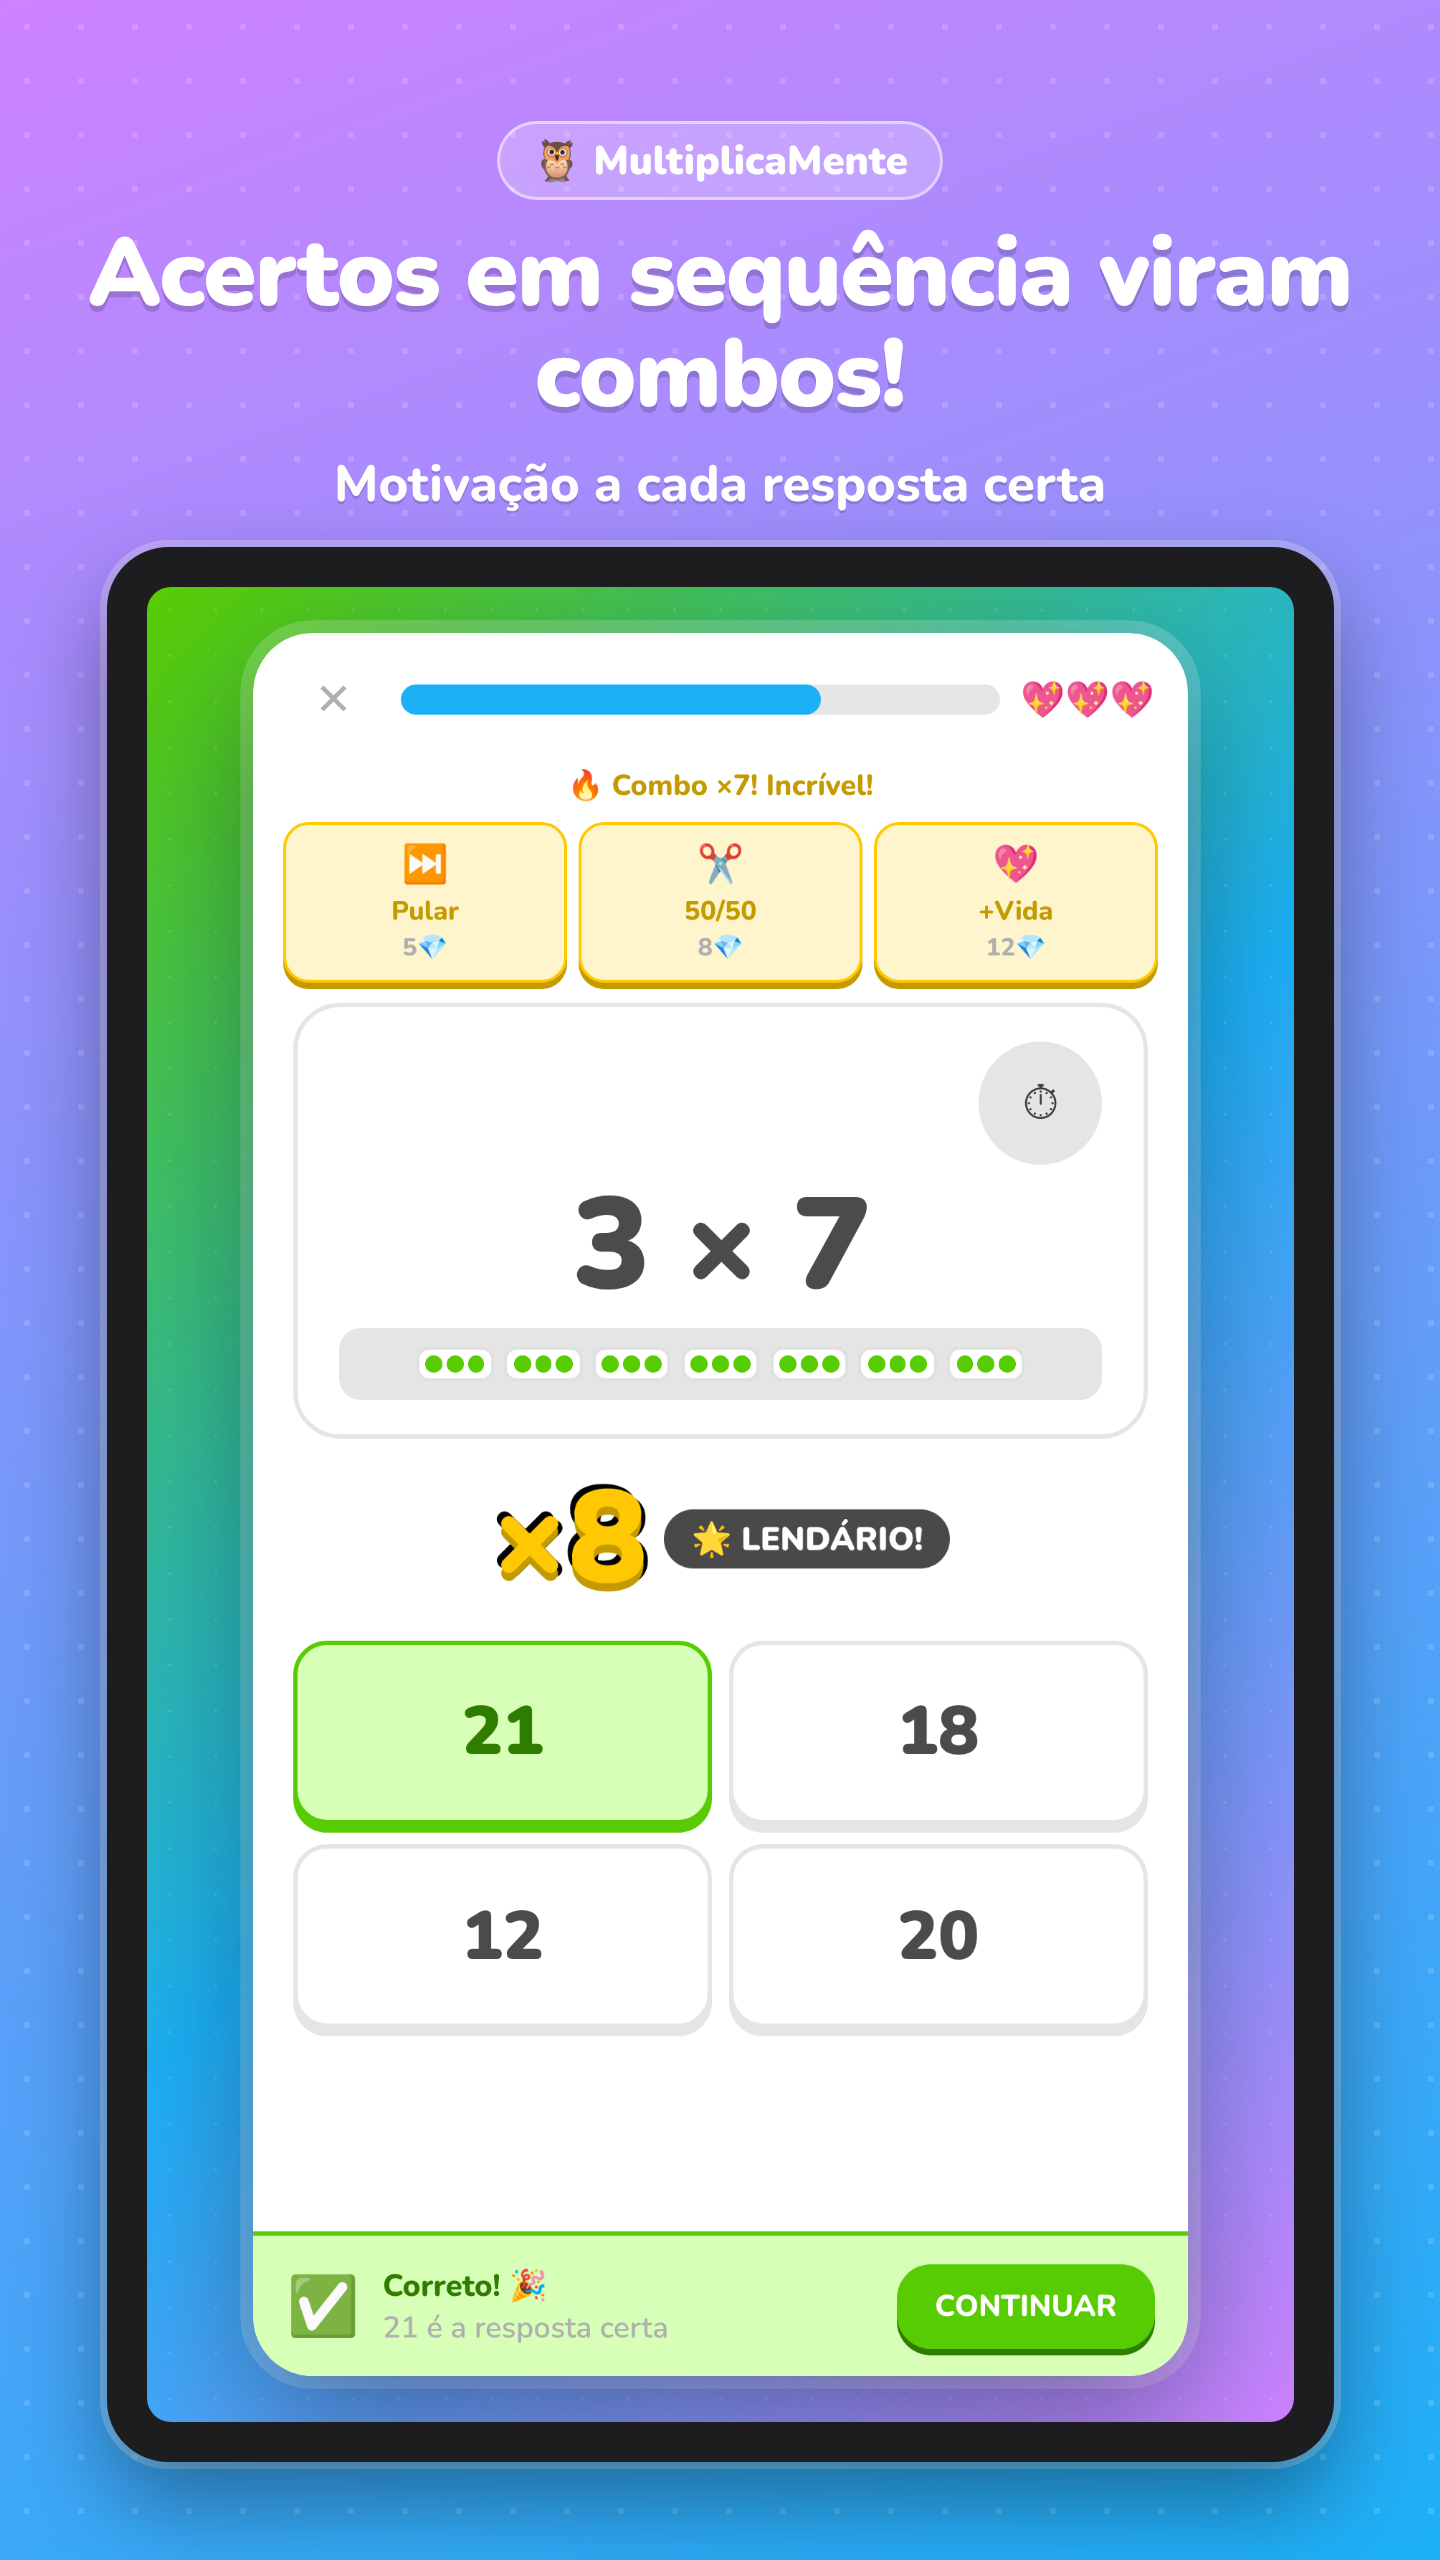
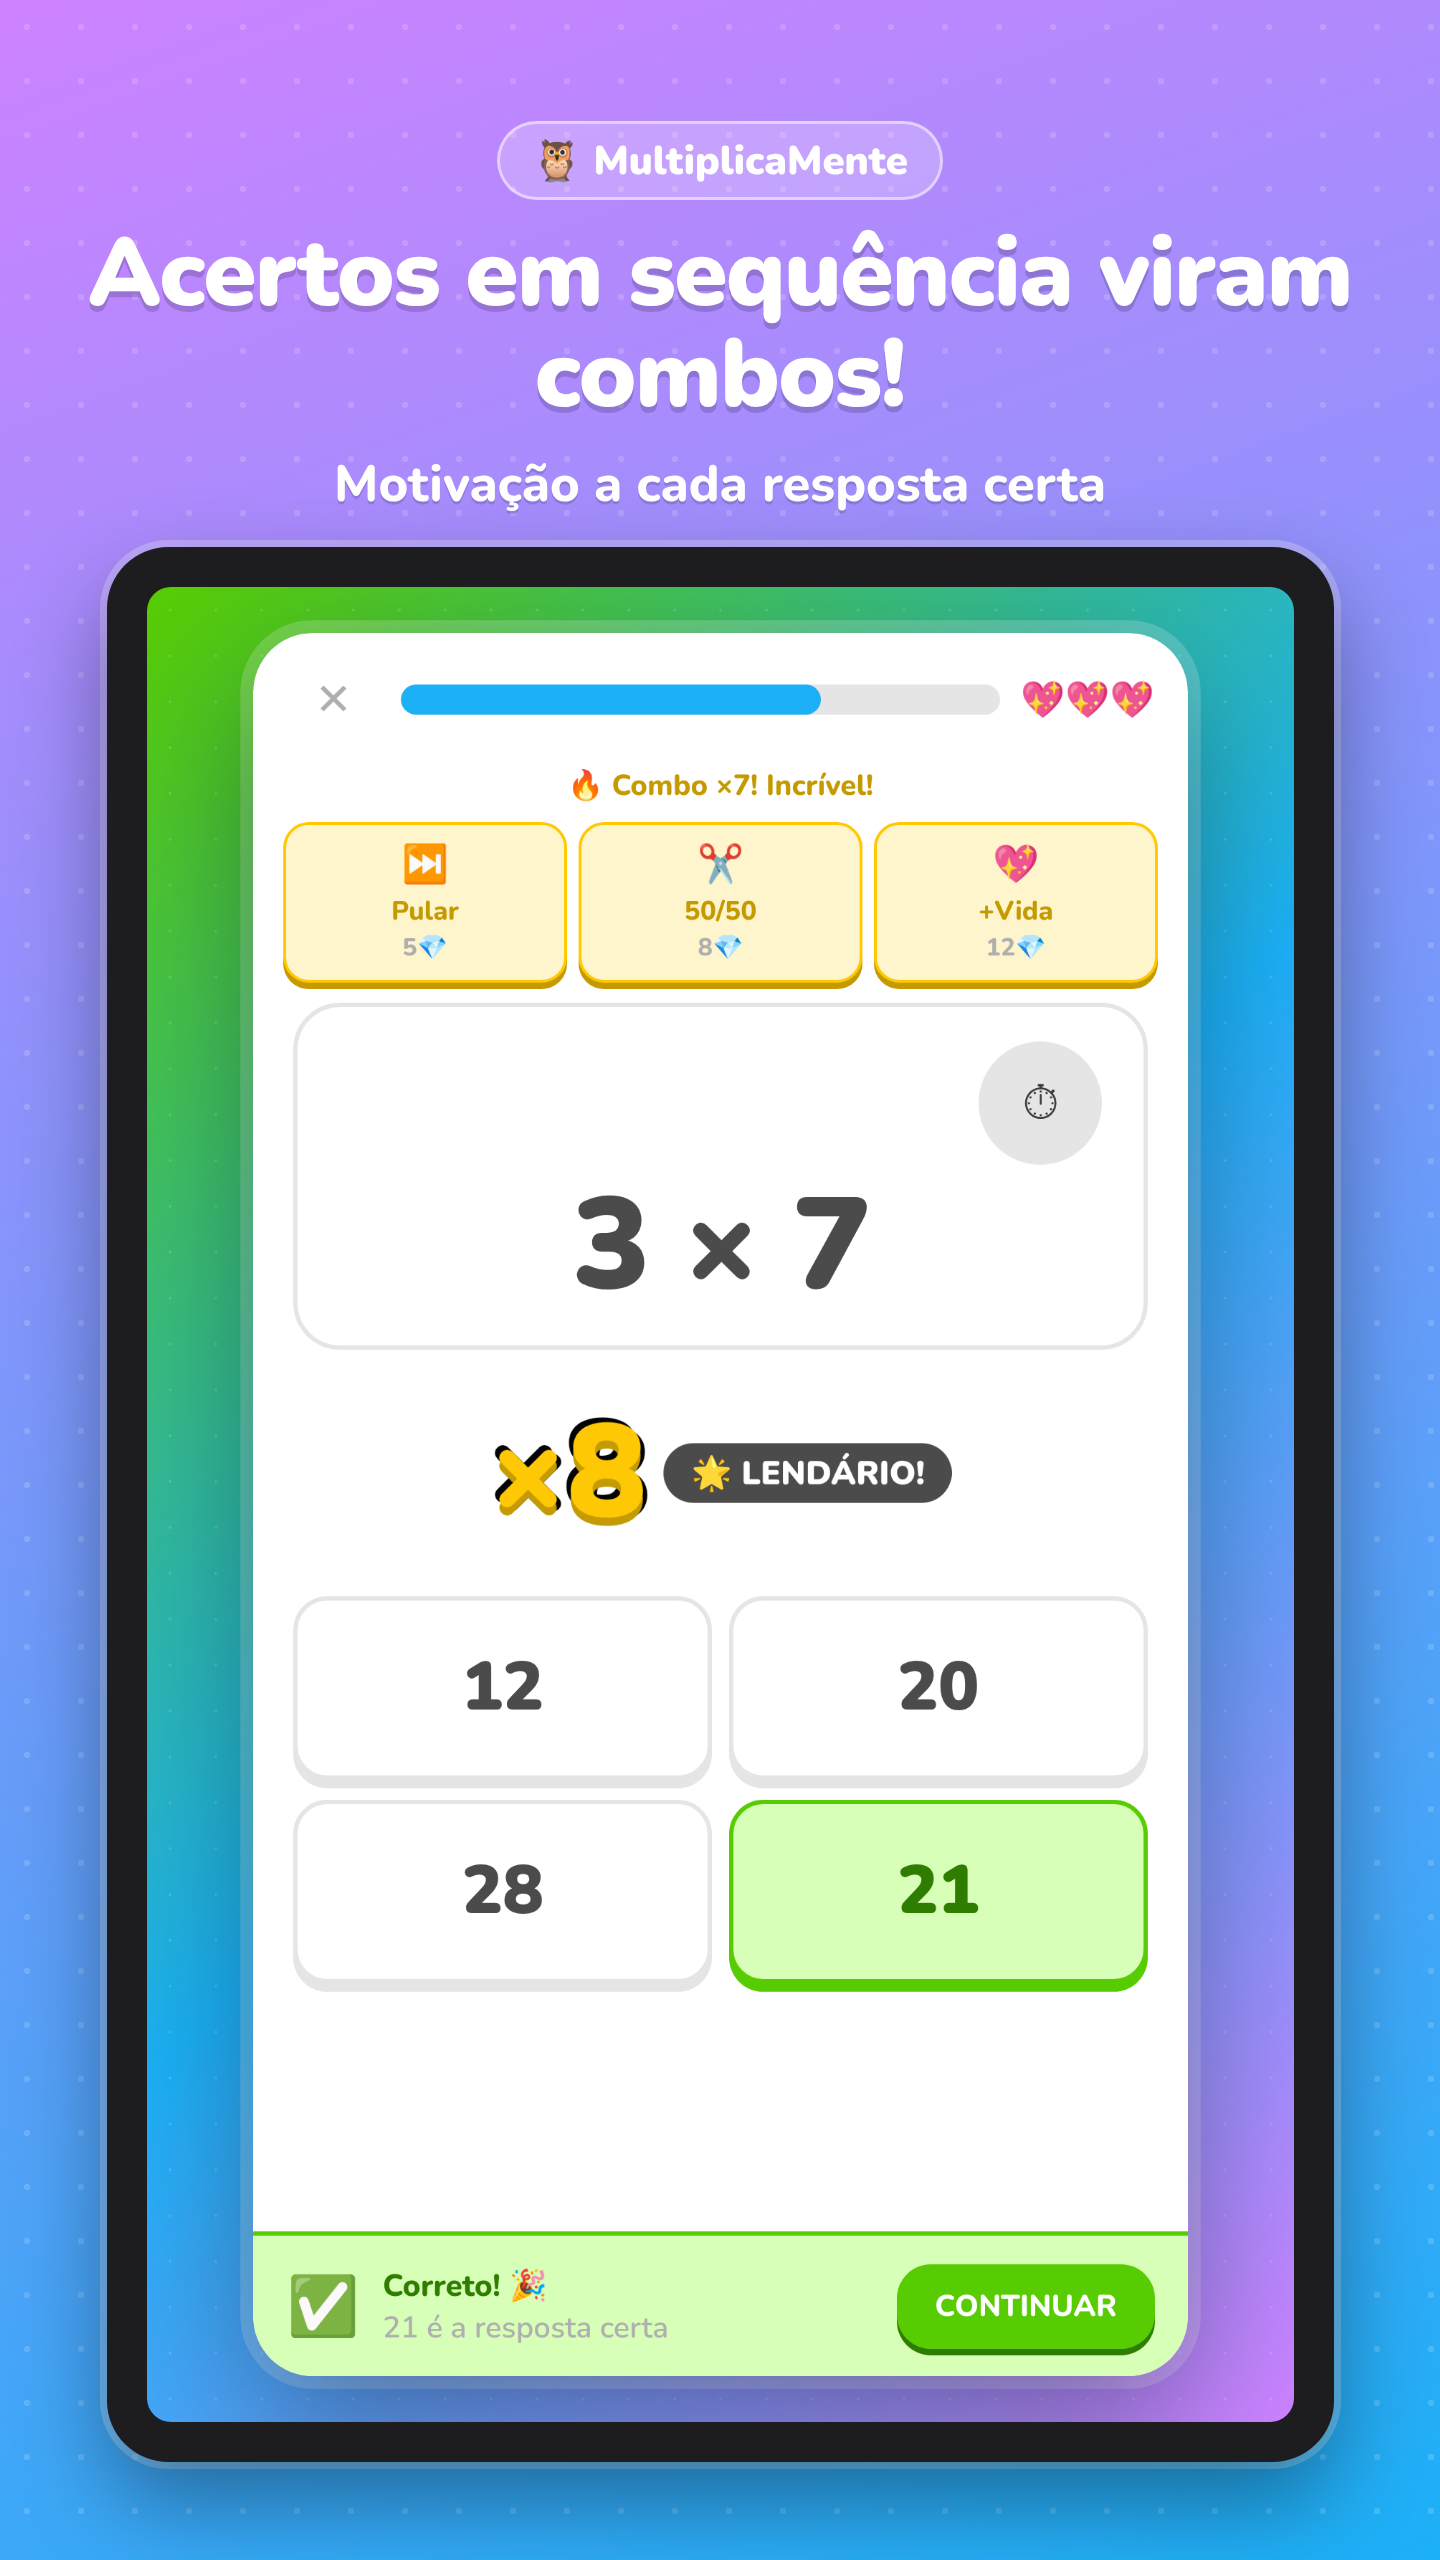
feat: bolinhas viram ajuda opcional e explicação do erro
Para a criança tentar lembrar o resultado (e não contar bolinhas):
- A pergunta aparece sem bolinhas
- Modo "Sem tempo": botão "💡 Ajuda" mostra a conta em grupos; vale o
  acerto, mas a partida não dá 3⭐ (nem criatura/partida perfeita) e a
  vitória avisa "Sem usar a ajuda vale 3⭐!"
- Modos com tempo: sem ajuda
- Ao errar (ou tempo esgotar), em qualquer modo, as bolinhas aparecem
  e a barra explica: "4 grupos de 3 = 12", "12 em grupos de 3 dá 4
  grupos", "7 tirando 3 sobram 4"
- Ajuda explica a regra das 3⭐; botão some ao responder
- Imagens da loja refeitas (a de "Cada conta vira desenho" mostra a ajuda)

Claude-Session: https://claude.ai/code/session_018USuwbLH5FBPDDRGoMxyHG

Changed region(s): [[0.1875, 0.5, 0.8125, 0.8125]]

diff --git a/www/index.html b/www/index.html
@@ -679,6 +679,10 @@ body[data-dark="1"] .inp{background:var(--bg-card);color:var(--text-main);}
 .btn-danger-outline:active{background:var(--red-bg);}
 @keyframes fadeOut{0%{opacity:1}100%{opacity:0}}
 
+/* botão de ajuda (bolinhas) na pergunta */
+.hint-btn{display:block;margin:.55rem auto 0;padding:.35rem 1rem;background:var(--yellow-bg);border:2px solid var(--yellow);border-radius:100px;font-family:'Nunito',sans-serif;font-weight:800;font-size:.85rem;color:var(--yellow-sh);cursor:pointer;box-shadow:0 2px 0 var(--yellow-sh);}
+.hint-btn:active{transform:translateY(2px);box-shadow:none;}
+
 /* link discreto (restaurar compra) */
 .link-btn{display:block;width:100%;margin-top:.6rem;background:none;border:none;font-family:'Nunito',sans-serif;font-weight:800;font-size:.85rem;color:var(--blue-dk);text-decoration:underline;cursor:pointer;padding:.4rem;}
 
@@ -1003,6 +1007,7 @@ body[data-dark="1"] .inp{background:var(--bg-card);color:var(--text-main);}
       <div class="qr-no-timer" id="qNoTimer">⏱</div>
     </div>
     <div class="q-main" id="qText">2 × 3</div>
+    <button class="hint-btn" id="hintBtn" onclick="useHint()">💡 Ajuda</button>
     <div class="q-vis" id="qVis"></div>
   </div>
   <div class="ans-area">
@@ -1073,7 +1078,7 @@ body[data-dark="1"] .inp{background:var(--bg-card);color:var(--text-main);}
     <div class="help-row">
       <div class="help-icon">⭐</div>
       <div class="help-info"><h4>Estrelas</h4>
-      <p>Ganhas ao completar tabuadas.<br>1⭐ = passou (já libera a próxima!) • 2⭐ = 80%+ de acertos • 3⭐ = perfeito sem erros</p></div>
+      <p>Ganhas ao completar tabuadas.<br>1⭐ = passou (já libera a próxima!) • 2⭐ = 80%+ de acertos • 3⭐ = perfeito, sem erros e sem usar a ajuda 💡</p></div>
     </div>
     <div class="help-row">
       <div class="help-icon">💎</div>
@@ -2363,7 +2368,7 @@ function startGame(table){
   if(table!=='boss' && PREMIUM_TABLES.includes(table) && !isPremiumUnlocked()){
     openPremium(); return;
   }
-  clearInterval(tIv);clearTimeout(autoT);GS={table,questions:mkQ(table),cur:0,ok:0,wrong:0,combo:0,maxCombo:0,hearts:3,diff};
+  clearInterval(tIv);clearTimeout(autoT);GS={table,questions:mkQ(table),cur:0,ok:0,wrong:0,combo:0,maxCombo:0,hearts:3,diff,hintUsed:false};
   initPowerups();document.getElementById('resultBar').className='result-bar hidden';document.getElementById('sGame').classList.remove('rb-visible');show('sGame');renderQ();
 }
 function restartLast(){if(GS)startGame(GS.table)}
@@ -2374,7 +2379,9 @@ function renderQ(){
   document.getElementById('heartsDisp').textContent='💖'.repeat(GS.hearts)||'💔';
   document.getElementById('qTip').textContent=q.tip||'';document.getElementById('qText').textContent=`${q.a} ${q.op||'×'} ${q.b}`;
   const cb=document.getElementById('comboBanner');if(GS.combo>=5)cb.textContent=`🔥 Combo ×${GS.combo}! Incrível!`;else if(GS.combo>=3)cb.textContent=`⚡ Combo ×${GS.combo}!`;else cb.textContent='';
-  renderVis(q);
+  // A criança tenta lembrar primeiro: as bolinhas só aparecem com a ajuda (modo sem tempo) ou depois de errar
+  document.getElementById('qVis').innerHTML='';
+  document.getElementById('hintBtn').style.display = GS.diff===0 ? '' : 'none';
   const opts=mkAns(ans,q);for(let i=0;i<4;i++){const b=document.getElementById('a'+i);b.textContent=opts[i];b.className='ans-btn';b.style.opacity='';b.style.display='';b.disabled=false;b.onclick=()=>pick(opts[i],ans,b)}
   setupTimer();
 }
@@ -2389,6 +2396,21 @@ function renderVis(q){
   else if(q.op==='+'){ chunks(q.a); const pl=document.createElement('span');pl.className='vplus';pl.textContent='+';vis.appendChild(pl); chunks(q.b,()=>' b'); }
   else if(q.op==='−'){ chunks(q.a,i=>i>=q.a-q.b?' x':''); }                       // os últimos b "saem"
 }
+// Ajuda: mostra a conta em grupos de bolinhas. Vale o acerto, mas a partida não dá 3⭐
+function useHint(){
+  if(waitNext||!GS) return;
+  renderVis(GS.questions[GS.cur]);
+  GS.hintUsed=true;
+  document.getElementById('hintBtn').style.display='none';
+}
+// Depois de errar: as bolinhas explicam a resposta certa
+function showExplain(q){ renderVis(q); document.getElementById('hintBtn').style.display='none'; }
+function explainQ(q,ans){
+  if(q.op==='×') return `${q.b} grupos de ${q.a} = ${ans}`;
+  if(q.op==='÷') return `${q.a} em grupos de ${q.b} dá ${ans} grupos`;
+  if(q.op==='−') return `${q.a} tirando ${q.b} sobram ${ans}`;
+  return `${q.a} + ${q.b} = ${ans}`;
+}
 function setupTimer(){
   const ring=document.getElementById('qRing'),nt=document.getElementById('qNoTimer');
   if(diff===0){ring.style.display='none';nt.style.display='flex';return}
@@ -2400,21 +2422,22 @@ function setupTimer(){
   tIv=setInterval(()=>{elapsed+=step;const rem=Math.max(0,(total-elapsed)/1000);updateRing(rem,diff,arc,num,C);if(rem<=1)playTick();if(elapsed>=total){clearInterval(tIv);timeOut()}},step);
 }
 function updateRing(rem,total,arc,num,C){const pct=rem/total;arc.style.strokeDashoffset=C*(1-pct);num.textContent=Math.ceil(rem);arc.className='qr-arc'+(pct>.5?'':pct>.25?' warn':' hot')}
-function timeOut(){const q=GS.questions[GS.cur];const ans=q.ans!==undefined?q.ans:q.a*q.b;GS.combo=0;GS.wrong++;GS.hearts--;playDuck();showRB(false,`Tempo! A resposta era ${ans}`,'Tente mais rápido da próxima vez! ⏱');for(let i=0;i<4;i++){const b=document.getElementById('a'+i);b.disabled=true;if(parseInt(b.textContent)===ans)b.classList.add('correct')}if(GS.hearts<=0){setTimeout(()=>endGame(false),1500);return}}
-function pick(sel,correct,btn){if(waitNext)return;clearInterval(tIv);for(let i=0;i<4;i++)document.getElementById('a'+i).disabled=true;if(sel===correct){btn.classList.add('correct');GS.ok++;GS.combo++;GS.maxCombo=Math.max(GS.maxCombo,GS.combo);P.totalOk=(P.totalOk||0)+1;playSuccess();showRB(true,'Correto! 🎉',`${sel} é a resposta certa`);if(GS.combo>=3)showComboPop(GS.combo);else flash(PRAISES[~~(Math.random()*PRAISES.length)],'ok');updateMissionProgress('combo',GS.combo);autoT=setTimeout(nextQ,GS.combo>=3?1300:1000);}else{btn.classList.add('wrong');for(let i=0;i<4;i++){const b=document.getElementById('a'+i);if(parseInt(b.textContent)===correct)b.classList.add('correct')}GS.combo=0;GS.wrong++;GS.hearts--;P.totalWrong=(P.totalWrong||0)+1;playDuck();showRB(false,`A resposta era ${correct}`,`${GS.questions[GS.cur].a} ${GS.questions[GS.cur].op||'×'} ${GS.questions[GS.cur].b} = ${correct}`);if(GS.hearts<=0){setTimeout(()=>endGame(false),1600);return}}}
-function showRB(ok,title,sub){waitNext=true;const bar=document.getElementById('resultBar');bar.className='result-bar '+(ok?'rb-correct':'rb-wrong');document.getElementById('rbIcon').textContent=ok?'✅':'❌';document.getElementById('rbTitle').textContent=title;document.getElementById('rbSub').textContent=sub;document.getElementById('sGame').classList.add('rb-visible');}
+function timeOut(){const q=GS.questions[GS.cur];const ans=q.ans!==undefined?q.ans:q.a*q.b;GS.combo=0;GS.wrong++;GS.hearts--;playDuck();showRB(false,`Tempo! A resposta era ${ans}`,explainQ(q,ans));showExplain(q);for(let i=0;i<4;i++){const b=document.getElementById('a'+i);b.disabled=true;if(parseInt(b.textContent)===ans)b.classList.add('correct')}if(GS.hearts<=0){setTimeout(()=>endGame(false),1500);return}}
+function pick(sel,correct,btn){if(waitNext)return;clearInterval(tIv);for(let i=0;i<4;i++)document.getElementById('a'+i).disabled=true;if(sel===correct){btn.classList.add('correct');GS.ok++;GS.combo++;GS.maxCombo=Math.max(GS.maxCombo,GS.combo);P.totalOk=(P.totalOk||0)+1;playSuccess();showRB(true,'Correto! 🎉',`${sel} é a resposta certa`);if(GS.combo>=3)showComboPop(GS.combo);else flash(PRAISES[~~(Math.random()*PRAISES.length)],'ok');updateMissionProgress('combo',GS.combo);autoT=setTimeout(nextQ,GS.combo>=3?1300:1000);}else{btn.classList.add('wrong');for(let i=0;i<4;i++){const b=document.getElementById('a'+i);if(parseInt(b.textContent)===correct)b.classList.add('correct')}GS.combo=0;GS.wrong++;GS.hearts--;P.totalWrong=(P.totalWrong||0)+1;playDuck();showRB(false,`A resposta era ${correct}`,explainQ(GS.questions[GS.cur],correct));showExplain(GS.questions[GS.cur]);if(GS.hearts<=0){setTimeout(()=>endGame(false),1600);return}}}
+function showRB(ok,title,sub){waitNext=true;const bar=document.getElementById('resultBar');bar.className='result-bar '+(ok?'rb-correct':'rb-wrong');document.getElementById('rbIcon').textContent=ok?'✅':'❌';document.getElementById('rbTitle').textContent=title;document.getElementById('rbSub').textContent=sub;document.getElementById('sGame').classList.add('rb-visible');document.getElementById('hintBtn').style.display='none';}
 let autoT=null;
 function nextQ(){clearTimeout(autoT);if(!waitNext||GS.hearts<=0)return;GS.cur++;if(GS.cur>=GS.questions.length){endGame(true);return}if(GS.cur===5){openModal('mBreak');return}renderQ()}
 function endGame(won){
   clearInterval(tIv);clearTimeout(autoT);P.totalGames=(P.totalGames||0)+1;const acc=GS.ok/GS.questions.length;
   updateStreak();P.bestCombo=Math.max(P.bestCombo||0,GS.maxCombo);if(won)P.wins=(P.wins||0)+1;
-  if(won&&acc===1&&GS.wrong===0) P.perfectGames=(P.perfectGames||0)+1;
+  const perfect = won&&acc===1&&GS.wrong===0&&!GS.hintUsed;
+  if(perfect) P.perfectGames=(P.perfectGames||0)+1;
   const log={table:GS.table,subject,ok:GS.ok,total:GS.questions.length,acc:~~(acc*100),won,combo:GS.maxCombo,diff,ts:Date.now(),date:new Date().toLocaleString('pt-BR')};
   P.logs=P.logs||[];P.logs.unshift(log);if(P.logs.length>20)P.logs.pop();
   updateMissionProgress('games',1);
-  if(won&&acc===1&&GS.wrong===0) updateMissionProgress('perfect',1);
+  if(perfect) updateMissionProgress('perfect',1);
   if(won){
-    const stars=acc===1&&GS.wrong===0?3:acc>=.8?2:1;const t=GS.table;const ts2=getTS();const prev=ts2[t]||0;const nS=t!=='boss'?Math.max(prev,stars):prev;if(t!=='boss')setTStar(t,nS);const gained=Math.max(0,nS-prev);
+    const stars=perfect?3:acc>=.8?2:1;const t=GS.table;const ts2=getTS();const prev=ts2[t]||0;const nS=t!=='boss'?Math.max(prev,stars):prev;if(t!=='boss')setTStar(t,nS);const gained=Math.max(0,nS-prev);
     const gems=GS.ok*2+GS.maxCombo*3+(acc===1?25:0)+(diff>0?(6-diff)*5:0);P.stars=(P.stars||0)+gained;P.gems=(P.gems||0)+gems;
     let cr=null;
     if(stars===3&&t!=='boss'){
@@ -2431,7 +2454,7 @@ function endGame(won){
     document.getElementById('winEmoji').textContent=stars===3?'🏆':stars===2?'⭐':'🎉';
     document.getElementById('winTitle').textContent=stars===3?'Perfeito! 🏆':stars===2?'Muito bem! ⭐':'Parabéns! 🎉';
     const sr=document.getElementById('winStars');sr.innerHTML='';for(let i=0;i<3;i++){const s=document.createElement('span');s.className='star-item'+(i>=stars?' empty':'');s.textContent='⭐';sr.appendChild(s)}
-    document.getElementById('winRewards').innerHTML=`<div class="rew-chip">💎 +${gems}</div>${gained>0?`<div class="rew-chip">⭐ +${gained}</div>`:''} ${GS.maxCombo>=3?`<div class="rew-chip">🔥 Combo ×${GS.maxCombo}</div>`:''} ${cr?`<div class="rew-chip" style="border-color:${cr.col};">${cr.e} ${cr.n} resgatada!</div>`:''}`;
+    document.getElementById('winRewards').innerHTML=(GS.hintUsed&&acc===1&&GS.wrong===0?`<div class="rew-chip" style="flex-basis:100%;justify-content:center;">💡 Sem usar a ajuda vale 3⭐!</div>`:'')+`<div class="rew-chip">💎 +${gems}</div>${gained>0?`<div class="rew-chip">⭐ +${gained}</div>`:''} ${GS.maxCombo>=3?`<div class="rew-chip">🔥 Combo ×${GS.maxCombo}</div>`:''} ${cr?`<div class="rew-chip" style="border-color:${cr.col};">${cr.e} ${cr.n} resgatada!</div>`:''}`;
     confetti();playWin(stars);if(stars===3) bigWinCelebration();openModal('mWin');setTimeout(moveJourneyChar,600);
     // Avisos extras só aparecem depois que a criança fecha a celebração
     afterWin=null;
